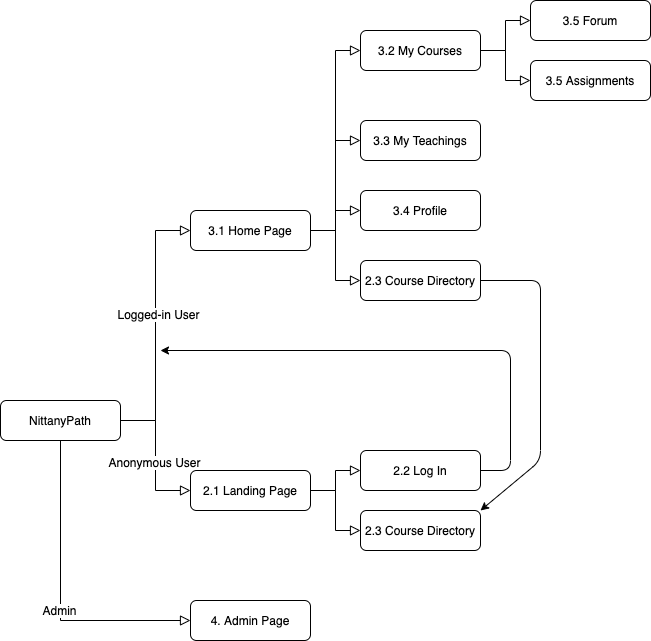
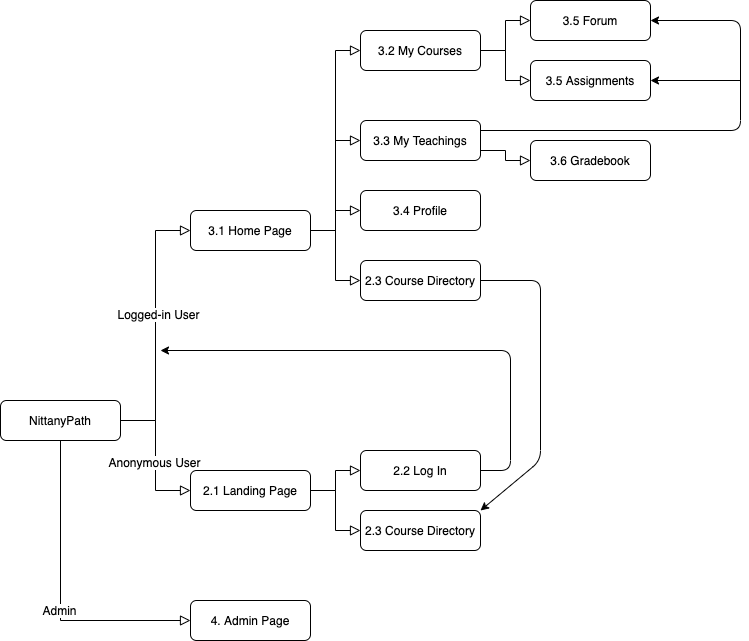
updated flowchart

diff --git a/README.md b/README.md
@@ -50,7 +50,7 @@ On the side of each enrollment record, a "Drop" button is provided and students 
 
 ### 3.3. My Teachings
 
-For faculty members and HAs, this page shows all the courses they're currently teaching. In this list, each course will have two buttons to direct students to their forum and assignment pages (section 3.5). The teaching team members have privileges to create, edit and delete posts in forum, and update grades for assignments. Only faculty teachers can create an assignment.
+For faculty members and TAs, this page shows all the courses they're currently teaching. In this list, each course will have two buttons to direct students to their forum and assignment pages (section 3.5). The teaching team members have privileges to create, edit and delete posts in forum, and update grades for assignments. Only faculty teachers can create an assignment.
 
 ### 3.4. My Profile
 
@@ -62,7 +62,11 @@ Each course will have its own forum, where all participants can view and comment
 
 Similar to the forum, all course participants can access the Assignment page, where students can see a list of assignments affiliated with the course, and their grades for each assignment if they are graded. And for teaching team members, a grade book will be shown and they can update each student's grade for each assignment at this page.
 
-### 3.6. Log-out
+### 3.6. Gradebook
+
+
+
+### 3.7. Log-out
 
 This is implemented with help from Django's default logout function. When logged-in user clicks on this button (on the top right corner of the system), NittanyPath will logout the current user and redirect to anonymous user's landing page (section 2.1).
 
